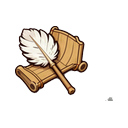
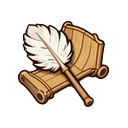
v0.2.15: 명사 버튼 아이콘이 왼쪽 위로 치우치던 문제 수정
- 그림 오른쪽 아래에 떨어져 남은 부스러기 점 때문에 테두리 상자가 커져 본 그림이 밀렸다 → 가장 큰 덩어리만 남기고 다시 가운데 맞춤

Changed region(s): [[0.0938, 0.1562, 0.875, 0.8438], [0.8438, 0.75, 0.875, 0.8125]]

diff --git a/ui.js b/ui.js
@@ -3024,7 +3024,7 @@
   };
   // 오른쪽 버튼 아이콘: 강화·명사·선택권·전황은 그린 그림(gfx/ic_*.png), 자동은 도는 화살표(켜져 있으면 CSS로 빙글빙글 돈다)
   const RAIL_PIC = { upgrade: 1, sage: 1, ticket: 1, war: 1 };
-  const rIcon = (k) => (RAIL_PIC[k] ? `<img class="ri" alt="" src="gfx/ic_${k}.png?v=4">` : `<svg class="ic" viewBox="0 0 24 24" aria-hidden="true"><path d="${RAIL_ICON[k]}"/></svg>`);
+  const rIcon = (k) => (RAIL_PIC[k] ? `<img class="ri" alt="" src="gfx/ic_${k}.png?v=5">` : `<svg class="ic" viewBox="0 0 24 24" aria-hidden="true"><path d="${RAIL_ICON[k]}"/></svg>`);
   function renderHud() {
     const vp = viewedPeer(), ln = vp && vp.state.ln;
     const gold = ln ? ln.g : g.me.gold, lives = ln ? ln.l : g.lives, en = ln ? ln.n : g.enemyCount(), own = ln ? ln.u.length : g.units.filter((u) => u.owner === 0).length;

diff --git a/src/ui/16-hud.js b/src/ui/16-hud.js
@@ -9,7 +9,7 @@
   };
   // 오른쪽 버튼 아이콘: 강화·명사·선택권·전황은 그린 그림(gfx/ic_*.png), 자동은 도는 화살표(켜져 있으면 CSS로 빙글빙글 돈다)
   const RAIL_PIC = { upgrade: 1, sage: 1, ticket: 1, war: 1 };
-  const rIcon = (k) => (RAIL_PIC[k] ? `<img class="ri" alt="" src="gfx/ic_${k}.png?v=4">` : `<svg class="ic" viewBox="0 0 24 24" aria-hidden="true"><path d="${RAIL_ICON[k]}"/></svg>`);
+  const rIcon = (k) => (RAIL_PIC[k] ? `<img class="ri" alt="" src="gfx/ic_${k}.png?v=5">` : `<svg class="ic" viewBox="0 0 24 24" aria-hidden="true"><path d="${RAIL_ICON[k]}"/></svg>`);
   function renderHud() {
     const vp = viewedPeer(), ln = vp && vp.state.ln;
     const gold = ln ? ln.g : g.me.gold, lives = ln ? ln.l : g.lives, en = ln ? ln.n : g.enemyCount(), own = ln ? ln.u.length : g.units.filter((u) => u.owner === 0).length;

diff --git a/version.js b/version.js
@@ -1,2 +1,2 @@
 // 자동 생성(scripts/build-ui.js). 버전은 package.json에서 바꾼다.
-window.RTD_VERSION = "0.2.14";
+window.RTD_VERSION = "0.2.15";
